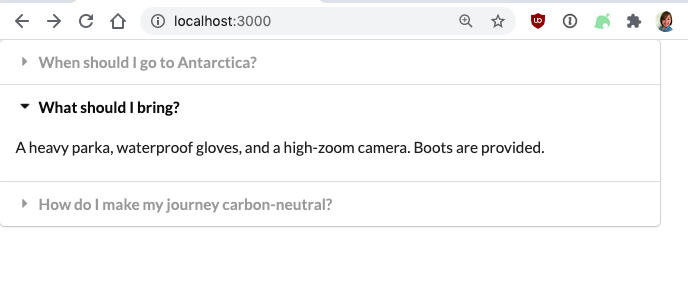
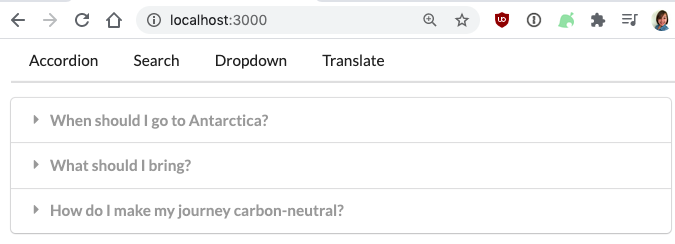
add nav bar and DIY routing to widgets project

diff --git a/widgets/src/App.js b/widgets/src/App.js
@@ -1,8 +1,10 @@
 import React, { useState } from 'react';
 import Accordion from './components/Accordion';
 import Dropdown from './components/Dropdown';
-import Translate from './components/Translate';
+import Header from './components/Header';
+import Route from './components/Route';
 import Search from './components/Search';
+import Translate from './components/Translate';
 
 const items = [
 	{
@@ -19,10 +21,43 @@ const items = [
 	}
 ];
 
+const options = [
+	{
+		label: 'Gentoo penguin',
+		value: 'gentoo-penguin'
+	},
+	{
+		label: 'Weddell seal',
+		value: 'weddell-seal'
+	},
+	{
+		label: 'Wandering albatross',
+		value: 'wandering-albatross'
+	}
+];
+
 export default () => {
+	const [selected, setSelected] = useState(0);
 	return (
 		<div className="ui container">
-			<Translate />
+			<Header />
+			<Route path='/'>
+				<Accordion items={items} />
+			</Route>
+			<Route path='/search'>
+				<Search />
+			</Route>
+			<Route path='/dropdown'>
+				<Dropdown
+					label="Select an Antarctic animal"
+					options={options}
+					selected={selected}
+					onSelectedChange={setSelected}
+				/>
+			</Route>
+			<Route path='/translate'>
+				<Translate />
+			</Route>
 		</div>
 	);
 };

diff --git a/widgets/src/components/Link.js b/widgets/src/components/Link.js
@@ -1,0 +1,28 @@
+import React from 'react';
+
+const Link = ({ href, className, children}) => {
+	const onClick = event => {
+		// Checks if the CMD (Mac) or CTRL (Windows) key was held
+		if (event.metaKey || event.ctrlKey) {
+			return;
+		}
+
+		// Prevents a full page reload, but also prevents the URL from changing
+		event.preventDefault();
+
+		// Manually keep the URL in sync with the desired path
+		window.history.pushState({}, '', href);
+
+		// Tell components the URL changed
+		const navEvent = new PopStateEvent('popstate');
+		window.dispatchEvent(navEvent);
+	};
+
+	return (
+		<a href={href} onClick={onClick} className={className}>
+			{children}
+		</a>
+	);
+};
+
+export default Link;

diff --git a/widgets/src/components/Route.js b/widgets/src/components/Route.js
@@ -1,0 +1,23 @@
+import { useState, useEffect } from 'react';
+
+const Route = ({ path, children }) => {
+	const [currentPath, setCurrentPath] = useState(window.location.pathname);
+
+	useEffect(() => {
+		const onLocationChange = () => {
+			setCurrentPath(window.location.pathname);
+		};
+
+		window.addEventListener('popstate', onLocationChange);
+
+		return () => {
+			window.removeEventListener('popstate', onLocationChange);
+		};
+	}, []);
+
+	return currentPath === path
+		? children
+		: null;
+}
+
+export default Route;

diff --git a/widgets/src/components/Header.js b/widgets/src/components/Header.js
@@ -1,0 +1,23 @@
+import React from 'react';
+import Link from './Link';
+
+const Header = () => {
+	return (
+		<div className="ui secondary pointing menu">
+			<Link href="/" className="item">
+				Accordion
+			</Link>
+			<Link href="/search" className="item">
+				Search
+			</Link>
+			<Link href="/dropdown" className="item">
+				Dropdown
+			</Link>
+			<Link href="/translate" className="item">
+				Translate
+			</Link>
+		</div>
+	);
+};
+
+export default Header;

diff --git a/README.md b/README.md
@@ -11,4 +11,4 @@ A collection of projects from Stephen Grider's Udemy Course: [Modern React with 
 | Seasons | class components, component lifecycle methods, DateTime, getting user location |
 | Pics | user input, event handlers, controlled components, event.preventDefault(), binding callbacks, Unsplash API, axios, async/await, css grid system, React refs |
 | Videos | html-react-parser, iframes, YouTube API, SemanticUI grid system |
-| Widgets | React Fragments, useState(), useEffect(), and useRef() hooks, Wikipedia API, dangerouslySetInnerHTML, debouncing, event listeners, Google Translate API |
+| Widgets | React Fragments, useState(), useEffect(), and useRef() hooks, Wikipedia API, dangerouslySetInnerHTML, debouncing, event listeners, Google Translate API, DIY routing/navigation |

diff --git a/widgets/README.md b/widgets/README.md
@@ -1,5 +1,5 @@
 ## Widgets
-A gallery of 4 widgets to demonstrate functional components with React hooks.
+A gallery of 4 widgets to demonstrate functional components with React hooks. Navigation is homespun—no React router necessary.
 - The Search widget uses the open Wikipedia API.
 - The Translate widget uses the paid Google Translate API.
 Styled with SemanticUI.
